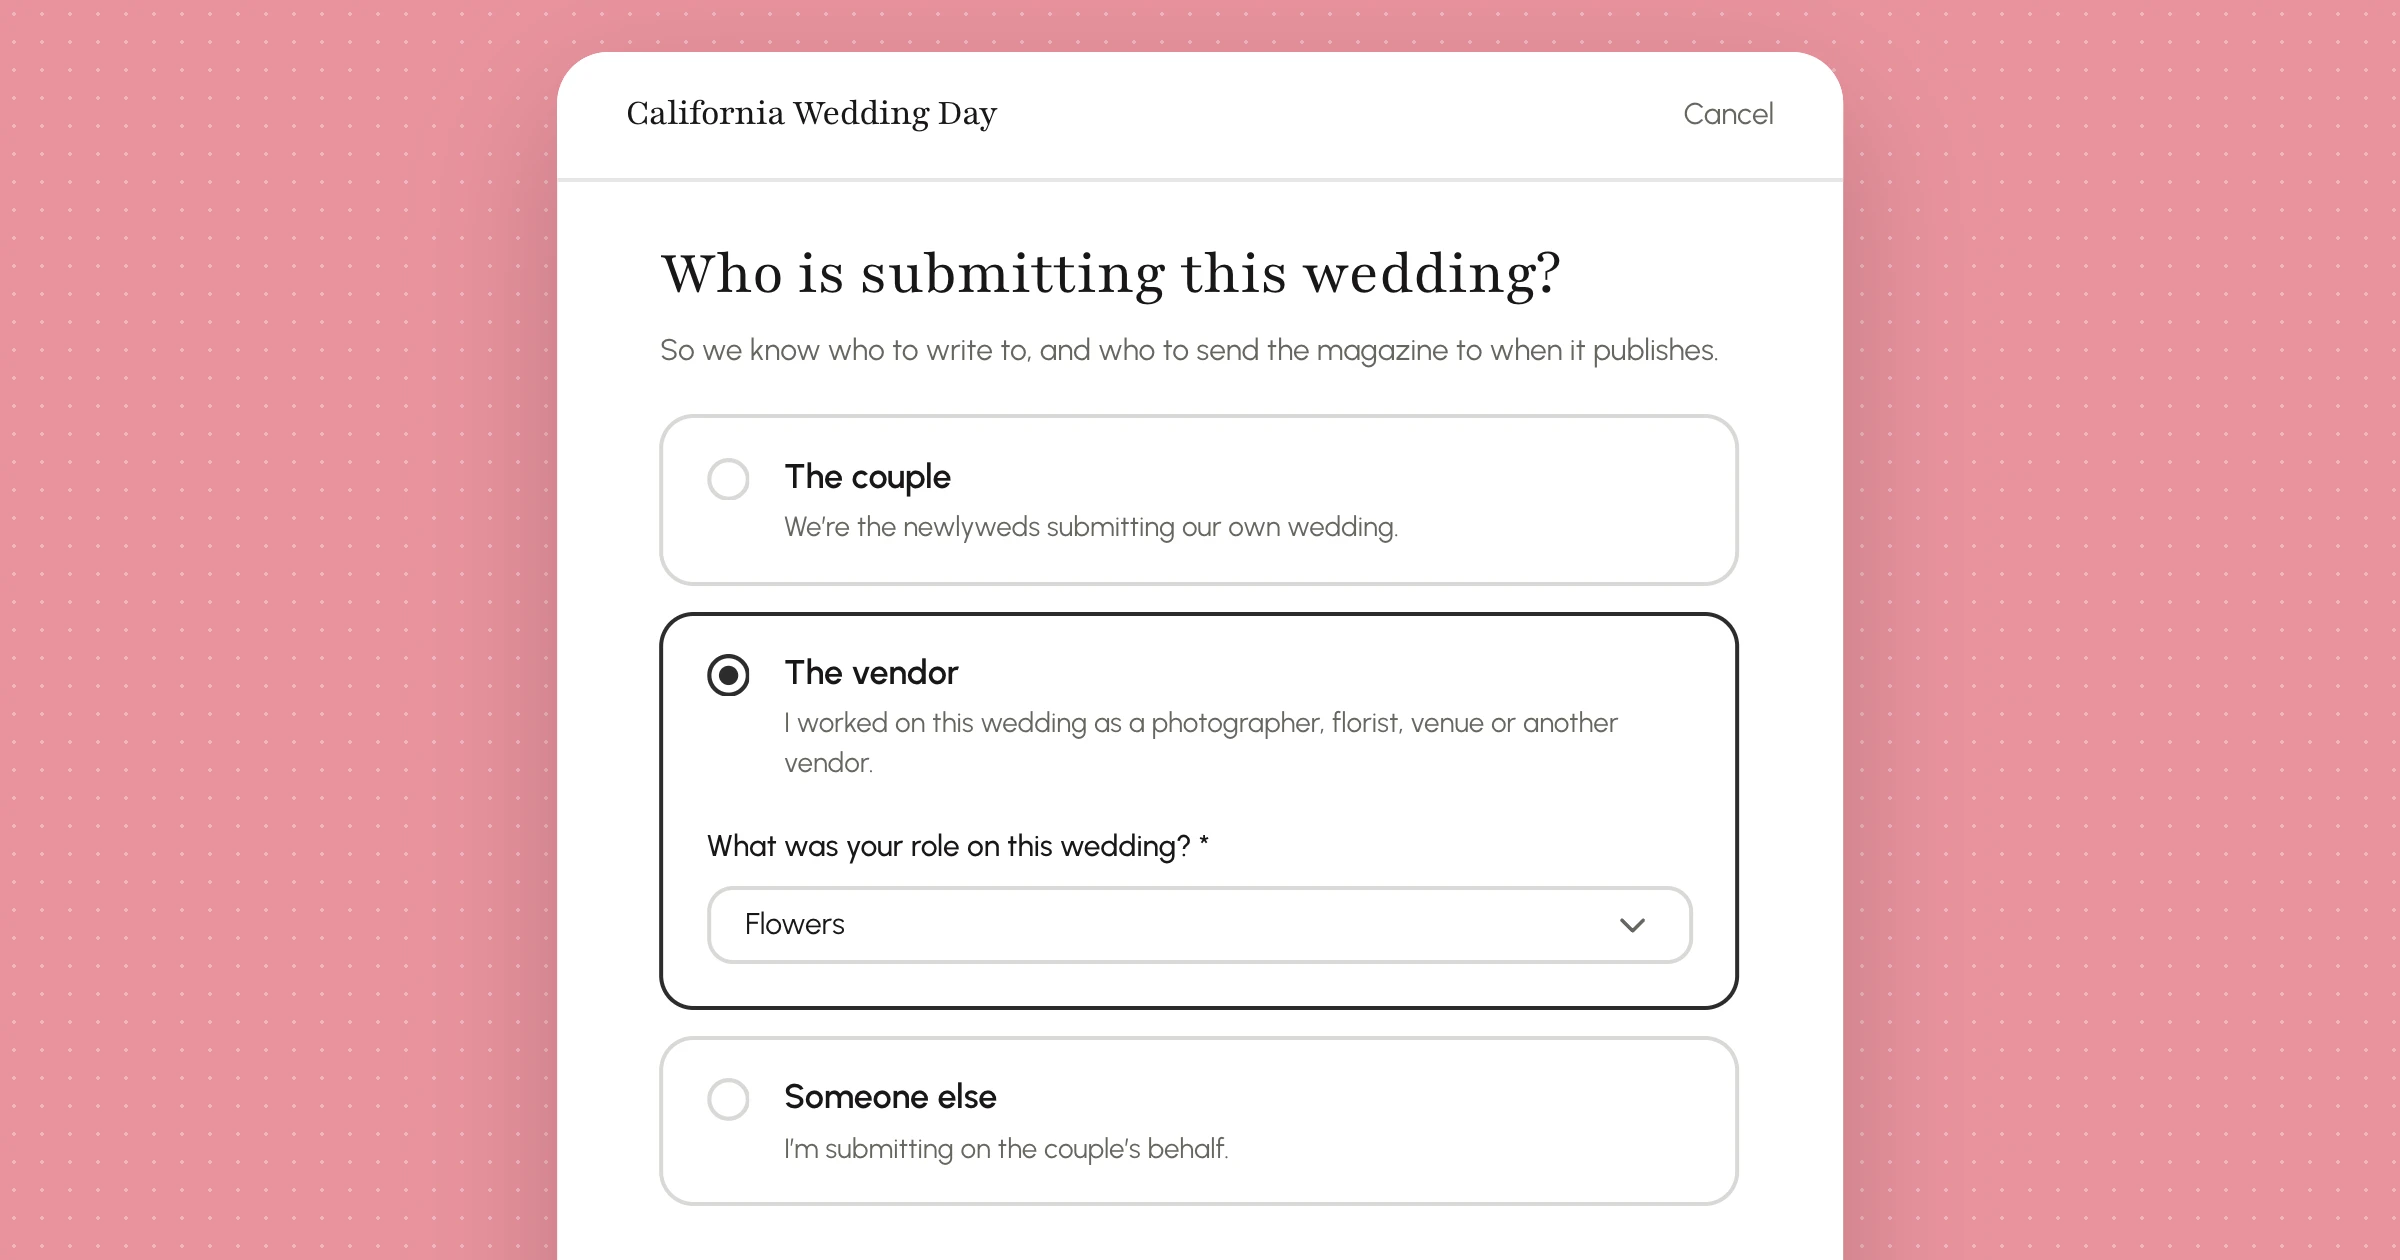
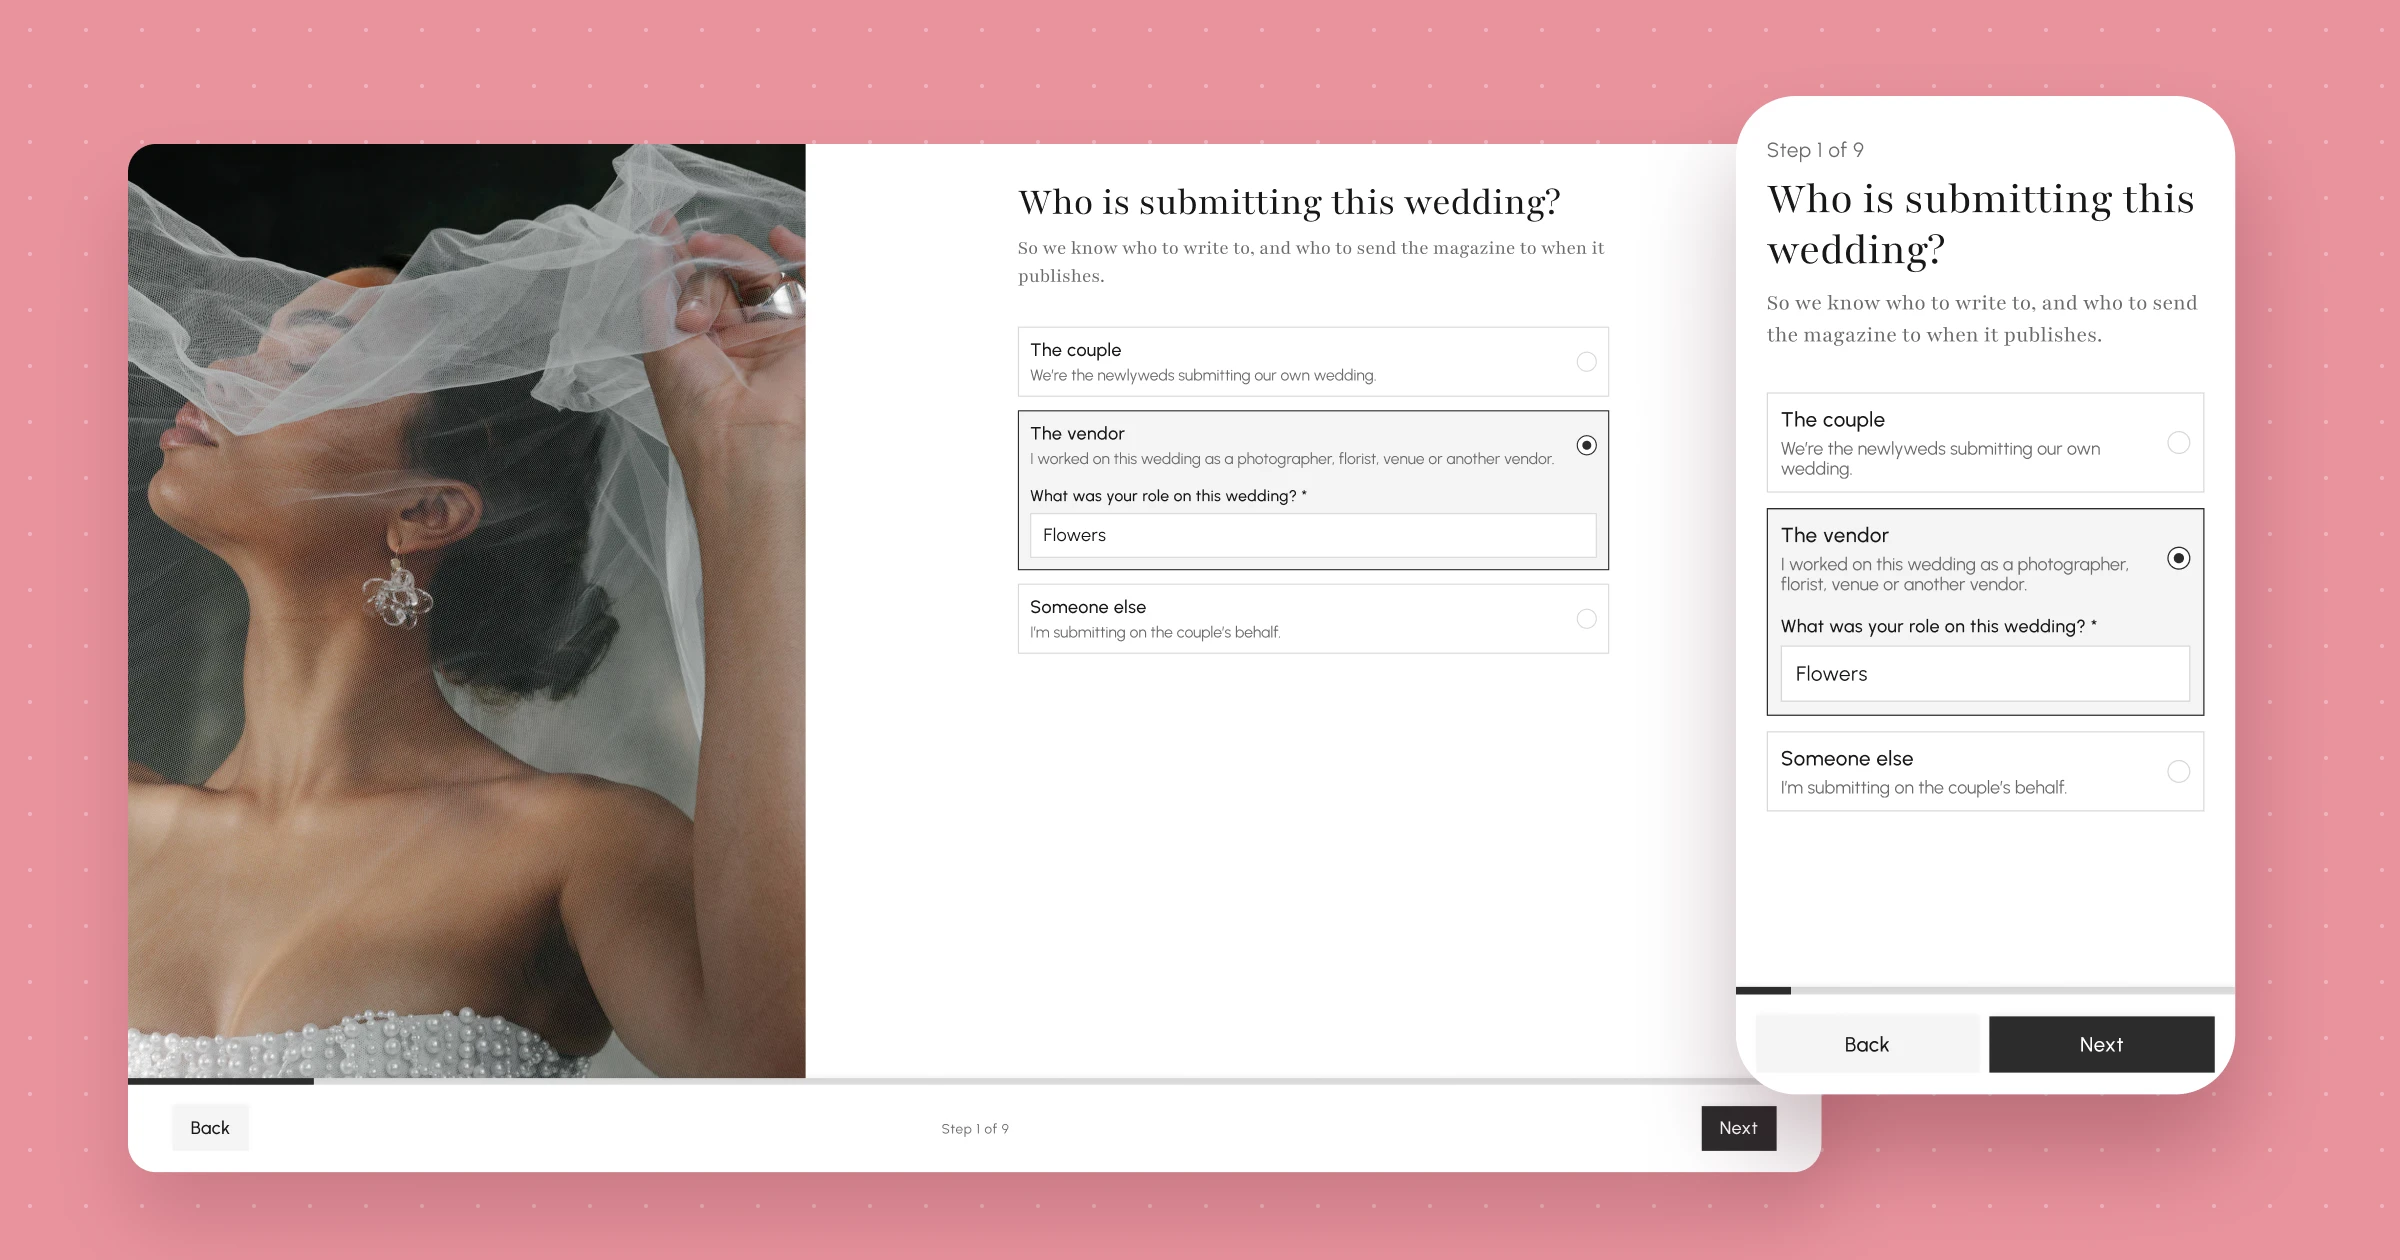
feat(work): use the figma cover for real wedding submissions

diff --git a/src/features/doc/components/doc-covers.ts b/src/features/doc/components/doc-covers.ts
@@ -2,7 +2,6 @@ import type { ComponentType } from "react"
 
 import { DesignSystemOverhaulCover } from "./design-system-overhaul-cover"
 import { ModernCareHomesCover } from "./modern-care-homes-cover"
-import { RealWeddingSubmissionsCover } from "./real-wedding-submissions-cover"
 import { StorybookKitCover } from "./storybook-kit-cover"
 
 /**
@@ -12,6 +11,5 @@ import { StorybookKitCover } from "./storybook-kit-cover"
 export const DOC_COVERS: Record<string, ComponentType<{ loop?: boolean }>> = {
   "design-system-overhaul": DesignSystemOverhaulCover,
   "modern-care-homes": ModernCareHomesCover,
-  "real-wedding-submissions": RealWeddingSubmissionsCover,
   "storybook-kit": StorybookKitCover,
 }
